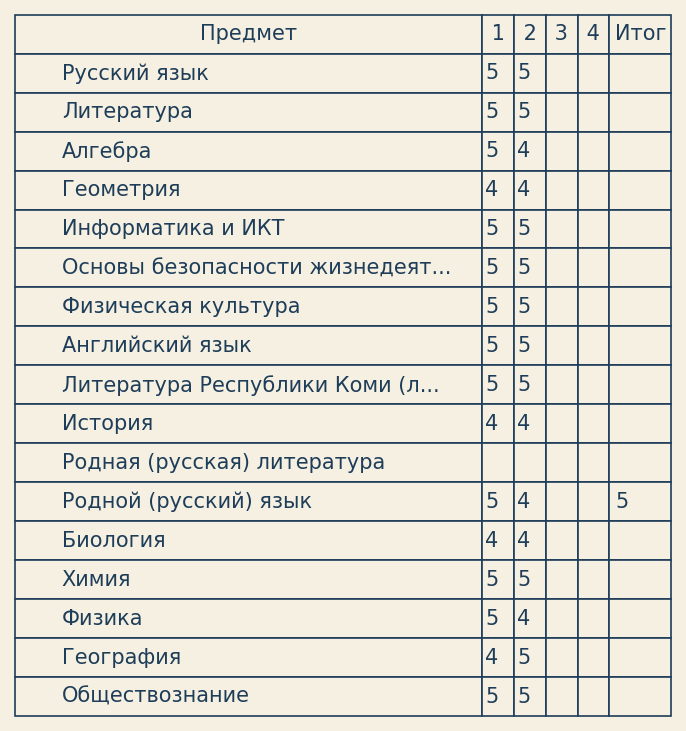
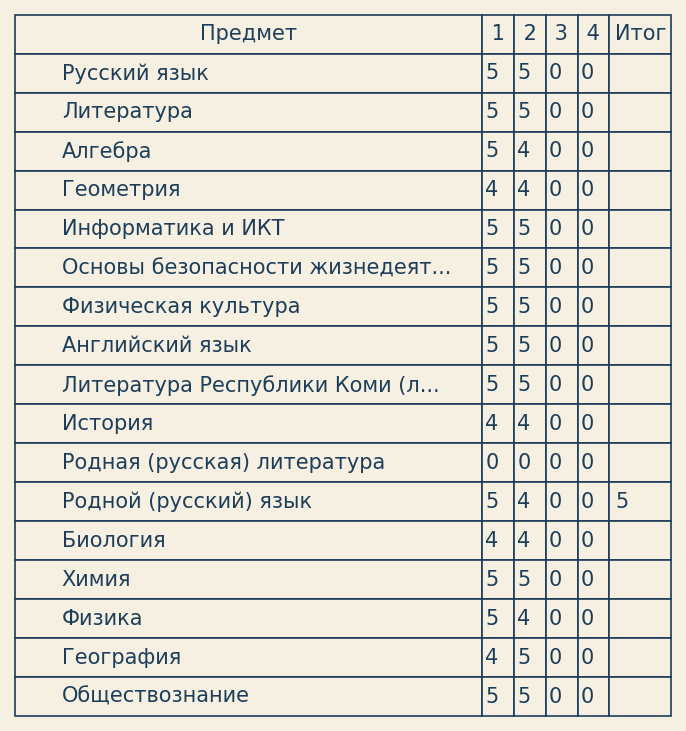
add new fetch with plots

diff --git a/tools/DbTools.py b/tools/DbTools.py
@@ -6,7 +6,7 @@ from aiogram import types
 from .PyGiseo import Parse
 from .base_model import *
 from decouple import config
-from .ImageConstructor import creation_image
+from .ImageConstructor import creation_image, plot_image
 
 project_path = config('PATH_P')
 params = ["chat_id", "login", "password", "place", "town", "type_school", "school", "theme"]
@@ -220,6 +220,42 @@ def get_homework_text(chat_id, day):
             text += f'<b>{item.subject}:</b>\n{item.homework}\n\n'
 
     return text
+
+
+def plot_constructor(chat_id, theme):
+    final_marks = FinalMarks.select().where(FinalMarks.chat_id == chat_id)
+    quarter_1 = 0
+    quarter_2 = 0
+    quarter_3 = 0
+    quarter_4 = 0
+
+    quarter_1_div = 0
+    quarter_2_div = 0
+    quarter_3_div = 0
+    quarter_4_div = 0
+
+    for item in final_marks:
+        if item.quarter_1:
+            quarter_1_div += 1
+            quarter_1 += item.quarter_1
+        if item.quarter_2:
+            quarter_2_div += 1
+            quarter_2 += item.quarter_2
+        if item.quarter_3:
+            quarter_3_div += 1
+            quarter_3 += item.quarter_3
+        if item.quarter_4:
+            quarter_4_div += 1
+            quarter_4 += item.quarter_4
+
+    data_marks = []
+
+    data_marks.append(quarter_1/quarter_1_div) if quarter_1_div else data_marks.append(0)
+    data_marks.append(quarter_2/quarter_2_div) if quarter_2_div else data_marks.append(0)
+    data_marks.append(quarter_3/quarter_3_div) if quarter_3_div else data_marks.append(0)
+    data_marks.append(quarter_4/quarter_4_div) if quarter_4_div else data_marks.append(0)
+
+    plot_image(data_marks, theme, chat_id, 'plot_marks.png')
 
 
 def update_images(chat_id, theme):

diff --git a/tools/PyGiseo.py b/tools/PyGiseo.py
@@ -328,14 +328,21 @@ class Parse:
                     name = t[1].text[:29] + '...'
                 else:
                     name = t[1].text
-                data.append([name, t[2].text, t[3].text, t[4].text, t[5].text, t[6].text])
+
+                for z in range(2, 6):
+                    if t[z].text == u'\xa0':
+                        t[z] = 0
+                    else:
+                        t[z] = int(t[z].text)
+
+                data.append([name, t[2], t[3], t[4], t[5], t[6].text])
 
                 base_model.FinalMarks.create(chat_id=self.chat_id,
                                              subject=name,
-                                             quarter_1=t[2].text,
-                                             quarter_2=t[3].text,
-                                             quarter_3=t[4].text,
-                                             quarter_4=t[5].text,
+                                             quarter_1=t[2],
+                                             quarter_2=t[3],
+                                             quarter_3=t[4],
+                                             quarter_4=t[5],
                                              final_mark=t[6].text)
 
         labels = ('Предмет', ' 1 ', ' 2 ', ' 3 ', ' 4 ', 'Итог')

diff --git a/tools/ImageConstructor.py b/tools/ImageConstructor.py
@@ -12,6 +12,16 @@ matplotlib.use('Agg')
 project_path = config('PATH_P')
 
 
+def plot_image(data, theme, chat_id, file):
+
+    x = [1, 2, 3, 4]
+    y = data
+
+    plt.plot(x, y, 'o-r', alpha=0.7, label="first", lw=5, mec='b', mew=2, ms=10)
+    plt.grid(True)
+    plt.savefig(f'{project_path}\\data\\assets\\user_{chat_id}\\{file}')
+
+
 def creation_image(data, labels, theme, chat_id, file, is_homework=False):
     # Style images
     if theme == 'theme_1':
